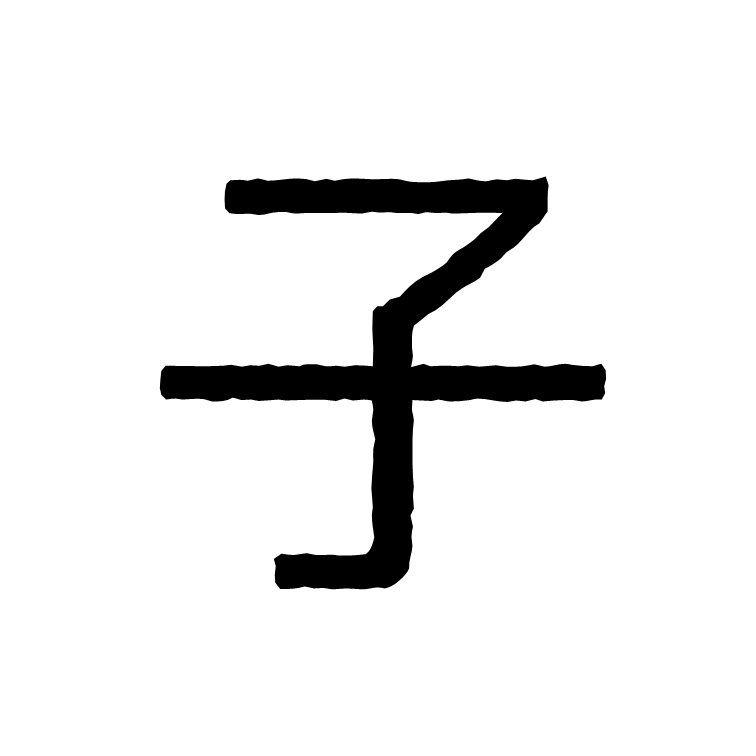
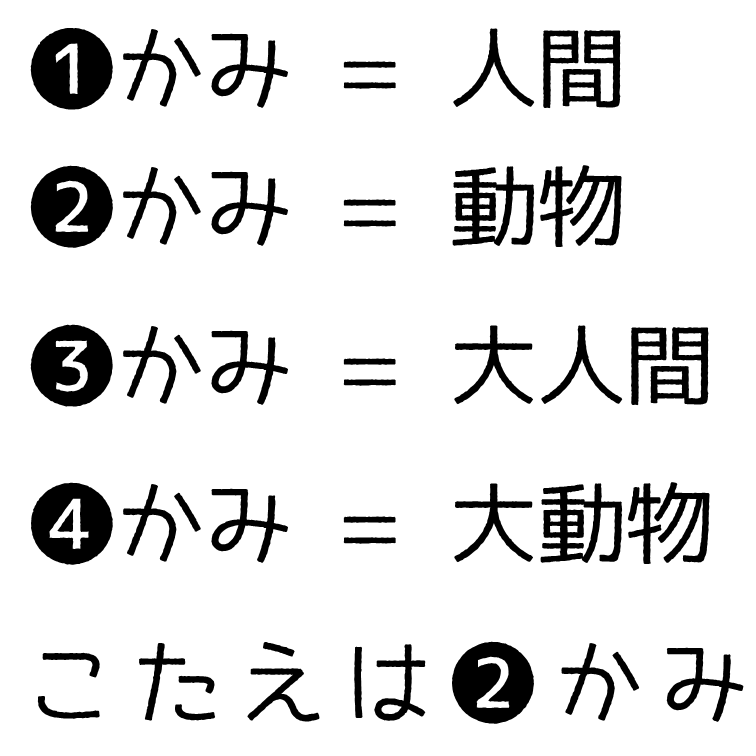
ok

diff --git a/NaguruzoMondo/CASE12/main.js b/NaguruzoMondo/CASE12/main.js
@@ -1,6 +1,6 @@
 let nazoid = 12;
-let imageNum = 28; // 画像の枚数
-let backgroundImage = 0; // 背景画像のインデックス
+let imageNum = 53; // 画像の枚数
+let backgroundImage = 27; // 背景画像のインデックス
 
 
 // パネルクラスの定義
@@ -46,7 +46,7 @@ class Panel {
         this.isAnimating = true;
         // 移動距離に応じて速度を調整
         const distance = newTargetY - this.y;
-        this.fallSpeed = distance / animationFrames; // 固定フレーム数で移動するための速度
+        this.fallSpeed = distance / animationFrames + 0.5; // 固定フレーム数で移動するための速度
     }
 }
 let images = [];
@@ -66,9 +66,15 @@ let actionLog = [];
 let tweetMess = "NaguruzoMondoに挑戦中！";
 
 let coin = 0;
-let answers = ["からしめんたいこ","辛子明太子"];
+let answers = ["とら","おおかみ"];
+let true_answers = ["ぜんもんのとらこうもんのおおかみ"];
 function answerCheck(word){
-    return answers.includes(word);
+    if(true_answers.includes(word)){
+        return 1; // 完全に正解
+    }else if(answers.includes(word)){
+        return 0; // 部分的に正解
+    }
+    return -1; // 不正解
 }
 
 let remainingAttempts = 3;
@@ -91,9 +97,9 @@ function preload() {
     for (let i = 0; i < totalRows * grid; i++) {
         clicked.push(0);
         if (i < grid * grid) {
-            showidx.push(i + 1); // 画面内のパネルは通常の画像
+            showidx.push(i + 28); // 画面外のパネル
         } else {
-            showidx.push((i % (grid * grid)) + 1); // 画面外のパネルもランダムな画像
+            showidx.push((i % (grid * grid)) + 1); // 画面内のパネル
         }
     }
 }
@@ -137,6 +143,7 @@ function draw() {
     isAnimating = panels.some(p => p.isAnimating);
     
     drawArea();
+
 }
 
 // パネル重力落下処理
@@ -144,7 +151,7 @@ function applyGravity(clickedPanelIndex) {
     const clickedCol = clickedPanelIndex % grid;
     const clickedRow = Math.floor(clickedPanelIndex / grid);
     
-    const fixedAnimationFrames = 15; // 固定アニメーション時間（フレーム数）
+    const fixedAnimationFrames = 60; // 固定アニメーション時間（フレーム数）
     
     // クリックされたパネルより上の列のパネルを下に移動（アニメーション開始）
     for (let row = clickedRow - 1; row >= 0; row--) {
@@ -153,7 +160,7 @@ function applyGravity(clickedPanelIndex) {
         
         if (currentIndex >= 0 && targetIndex < panels.length) {
             // アニメーション用の目標位置を設定
-            const targetY = Math.floor(targetIndex / grid - (totalRows - grid)) * cellHeight;
+            const targetY = (Math.floor(targetIndex / grid) - (totalRows - grid)) * cellHeight;
             panels[currentIndex].startFalling(targetY, fixedAnimationFrames);
         }
     }
@@ -189,35 +196,17 @@ function applyGravity(clickedPanelIndex) {
 }
 
 function calcNewImage(index) {
-    if (inner.includes(index)){
-        return 0;
-    }
-    
-    if (cand.length == 1){
-        if (index == cand[0]) {
-            return 26;
-        }else if (index == 24 - cand[0]) {
-            return 27;
-        }
-    }
-
-    if (cand.includes(index)){
-        cand.splice(cand.indexOf(index), 1);
-    }
-    if (cand.includes(24-index)) {
-        cand.splice(cand.indexOf(24 - index), 1);
-    }
-
-    console.log(inner, cand);
-
     return 0;
 }
 
 function make_tweet(res = 0) {
     score = grid * grid;
-    for (let i = 0; i < grid * grid; i++) {
-        if (clicked[i] == 1) {
-            score--;
+
+    towers = [10,10,10,10,10];
+    for (let i = 0; i < actionLog.length; i++) {
+        if (actionLog[i] > -1) {
+            score -= 1;
+            towers[actionLog[i]]--;
         }
     }
 
@@ -226,13 +215,13 @@ function make_tweet(res = 0) {
     if (res == 0) {
         tweetText = `CASE${nazoid}\n\nScore: ${score}/${grid * grid} (${attempt}回目)\n`;
     } else {
-        tweetText = `CASE${nazoid}\n\nScore: 失格\n`;
+        tweetText = `CASE${nazoid}\n\nScore: ${10000+score}/${grid * grid} (${attempt}回目)\n`
     }
     for (let i = 0; i < grid; i++) {
         ret = "";
         for (let j = 0; j < grid; j++) {
             let index = i * grid + j;
-            if (clicked[index] == 1) {
+            if (towers[j] + i < 5) {
                 ret += "⬜";
             } else {
                 ret += "🟨";
@@ -270,15 +259,15 @@ function tweet(tweet) {
 function drawArea() {
     // 背景と画像を再描画して影を消す
     background(255);
-    // image(images[backgroundImage], 0, 0, width, height);
-    drawTetrahedronNatural(width / 2, height / 2, width / 2, frameCount / 200);
+    image(images[backgroundImage], 0, 0, width, height);
+
 
     // 通常パネル（BLEND）
     blendMode(BLEND);
     for (let idx = 0; idx < panels.length; idx++) {
         let p = panels[idx];
         let showid = showidx[idx];
-        if (1 <= showid && showid <= grid * grid) {
+        if (showid >= 1) {
             p.id = showid;
             p.draw(images);
         }
@@ -288,7 +277,7 @@ function drawArea() {
     for (let idx = 0; idx < panels.length; idx++) {
         let p = panels[idx];
         let showid = showidx[idx];
-        if (!(1 <= showid && showid <= grid * grid)) {
+        if (!(showid >= 1)) {
             p.id = showid;
             p.draw(images);
         }
@@ -362,7 +351,7 @@ function mouseReleased() {
     
     // 同じパネル上で開始・終了し、まだクリックされていない場合
     if (cleared == 0 && startPanel >= 0 && startPanel === endPanel && clicked[startPanel] == 0) {
-        actionLog.push(startPanel);
+        actionLog.push(startPanel%5);
         clicked[startPanel] = true;
         let newpic = calcNewImage(startPanel);
         showidx[startPanel] = newpic;
@@ -380,10 +369,18 @@ const submitButton = document.getElementById('submitAnswer');
 if (submitButton) {
     submitButton.addEventListener('click', () => {
         const answerInput = document.getElementById('answerInput').value;
-        if (answerCheck(answerInput)) {
+        if (answerCheck(answerInput) == 0) {
             alert('正解！');
 
-            tweetMess = make_tweet();
+            tweetMess = make_tweet(0);
+
+            cleared = 1;
+
+            showResultButtons(tweetMess);
+        }else if (answerCheck(answerInput) == 1) {
+            alert('完全に正解！');
+
+            tweetMess = make_tweet(res=1);
 
             cleared = 1;
 
@@ -455,116 +452,4 @@ function showResultButtons(tweetMess) {
 
     const container = document.getElementById('canvas-container');
     container.appendChild(buttonContainer);
-}
-
-// 3Dノイズでランダムな回転を与えた正四面体を描画
-function drawTetrahedron(cx, cy, size, phase = 0) {
-    // 正四面体の4頂点（正規化済み）
-    const rawVerts = [
-        [1, 1, 1],
-        [1, -1, -1],
-        [-1, 1, -1],
-        [-1, -1, 1]
-    ].map(v => {
-        let n = Math.sqrt(v[0]**2 + v[1]**2 + v[2]**2);
-        return v.map(x => x / n);
-    });
-    // 3Dノイズで回転軸と角度を決める
-    let theta = noise(phase, 0) * Math.PI * 2;
-    let phi = noise(0, phase) * Math.PI;
-    let axis = [
-        Math.sin(phi) * Math.cos(theta),
-        Math.sin(phi) * Math.sin(theta),
-        Math.cos(phi)
-    ];
-    let angle = noise(phase, phase) * Math.PI * 2;
-    // ロドリゲスの回転公式
-    function rotate(v, axis, angle) {
-        const [x, y, z] = v;
-        const [u, v1, w] = axis;
-        const cosA = Math.cos(angle);
-        const sinA = Math.sin(angle);
-        return [
-            (u*u+(1-u*u)*cosA)*x + (u*v1*(1-cosA)-w*sinA)*y + (u*w*(1-cosA)+v1*sinA)*z,
-            (u*v1*(1-cosA)+w*sinA)*x + (v1*v1+(1-v1*v1)*cosA)*y + (v1*w*(1-cosA)-u*sinA)*z,
-            (u*w*(1-cosA)-v1*sinA)*x + (v1*w*(1-cosA)+u*sinA)*y + (w*w+(1-w*w)*cosA)*z
-        ];
-    }
-    // 回転適用
-    let verts = rawVerts.map(v => rotate(v, axis, angle));
-    // 2D投影（パース付き）
-    let projected = verts.map(([x, y, z]) => {
-        const d = 3.5; // 視点距離
-        const perspective = d / (d - z);
-        return [cx + x * size * perspective, cy + y * size * perspective];
-    });
-    // 頂点描画
-    fill(100, 180, 255);
-    stroke(0);
-    strokeWeight(2);
-    for(const [x, y] of projected){
-        ellipse(x, y, 14, 14);
-    }
-    // 辺を描画
-    const edges = [[0,1],[0,2],[0,3],[1,2],[2,3],[3,1]];
-    for(const [i,j] of edges){
-        const [x1,y1]=projected[i];
-        const [x2,y2]=projected[j];
-        line(x1,y1,x2,y2);
-    }
-}
-
-// 3軸独立の連続回転で自然な3D回転を与える正四面体描画
-function drawTetrahedronNatural(cx, cy, size, phase = 0) {
-    // 正四面体の4頂点（正規化済み）
-    const rawVerts = [
-        [1, 1, 1],
-        [1, -1, -1],
-        [-1, 1, -1],
-        [-1, -1, 1]
-    ].map(v => {
-        let n = Math.sqrt(v[0]**2 + v[1]**2 + v[2]**2);
-        return v.map(x => x / n);
-    });
-    // 3軸独立の連続回転
-    function rotate3D([x, y, z], t) {
-        // X軸
-        let rx = t * 0.7;
-        let y1 = y * Math.cos(rx) - z * Math.sin(rx);
-        let z1 = y * Math.sin(rx) + z * Math.cos(rx);
-        let x1 = x;
-        // Y軸
-        let ry = t * 1.1;
-        let z2 = z1 * Math.cos(ry) - x1 * Math.sin(ry);
-        let x2 = z1 * Math.sin(ry) + x1 * Math.cos(ry);
-        let y2 = y1;
-        // Z軸
-        let rz = t * 1.5;
-        let x3 = x2 * Math.cos(rz) - y2 * Math.sin(rz);
-        let y3 = x2 * Math.sin(rz) + y2 * Math.cos(rz);
-        let z3 = z2;
-        return [x3, y3, z3];
-    }
-    // 回転適用
-    let verts = rawVerts.map(v => rotate3D(v, phase));
-    // 2D投影（パース付き）
-    let projected = verts.map(([x, y, z]) => {
-        const d = 100; // 視点距離
-        const perspective = d / (d - z);
-        return [cx + x * size * perspective, cy + y * size * perspective];
-    });
-    // 頂点描画
-    fill(100, 180, 255);
-    stroke(0);
-    strokeWeight(2);
-    // for(const [x, y] of projected){
-    //     ellipse(x, y, 14, 14);
-    // }
-    // 辺を描画
-    const edges = [[0,1],[0,2],[0,3],[1,2],[2,3],[3,1]];
-    for(const [i,j] of edges){
-        const [x1,y1]=projected[i];
-        const [x2,y2]=projected[j];
-        line(x1,y1,x2,y2);
-    }
 }

diff --git a/NaguruzoMondo/index.html b/NaguruzoMondo/index.html
@@ -21,6 +21,7 @@
         <li><a href="CASE9/">CASE9</a></li>
         <li><a href="CASE10/">CASE10</a></li>
         <li><a href="CASE11/">CASE11</a></li>
+        <li><a href="CASE12/">CASE12</a></li>
     </ul>
 </body>
 </html>
